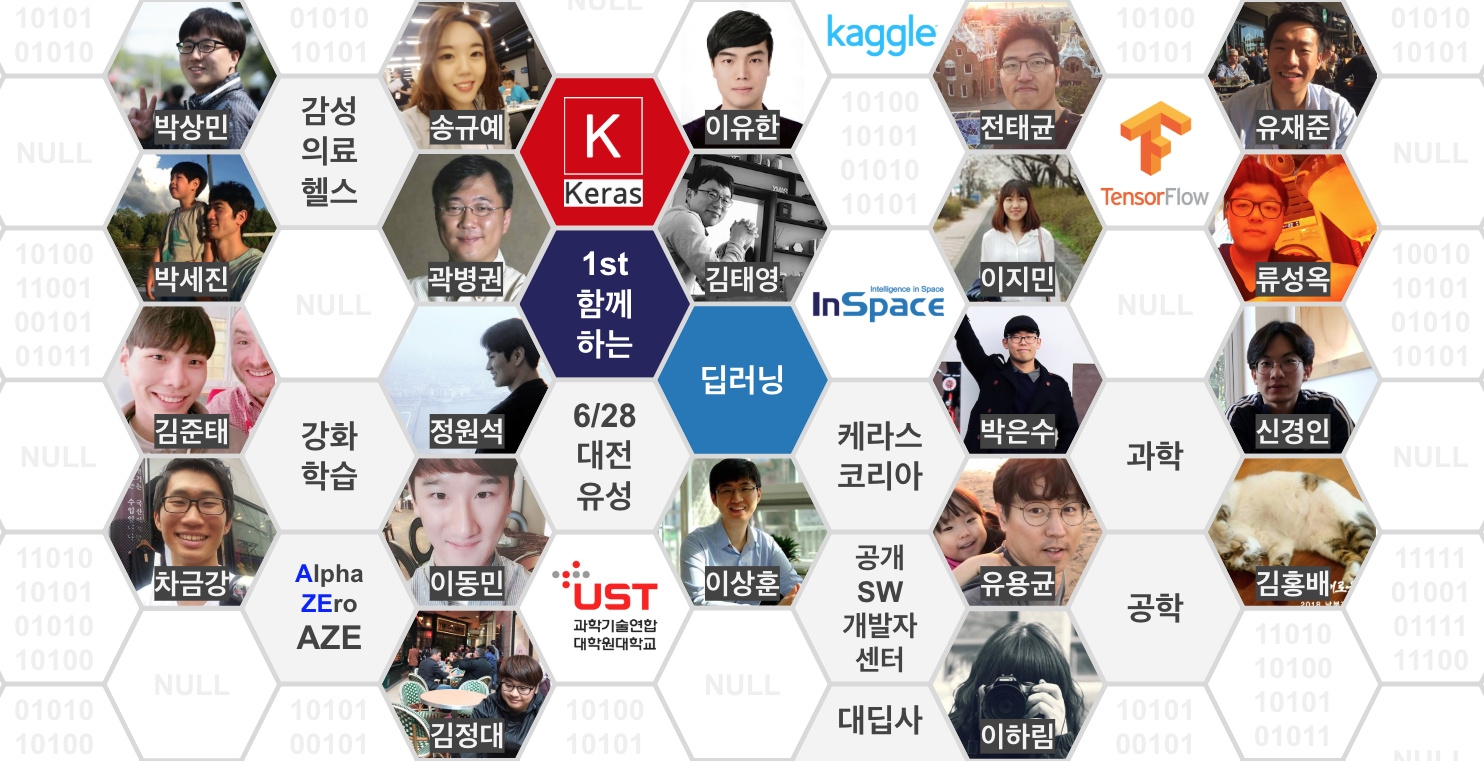
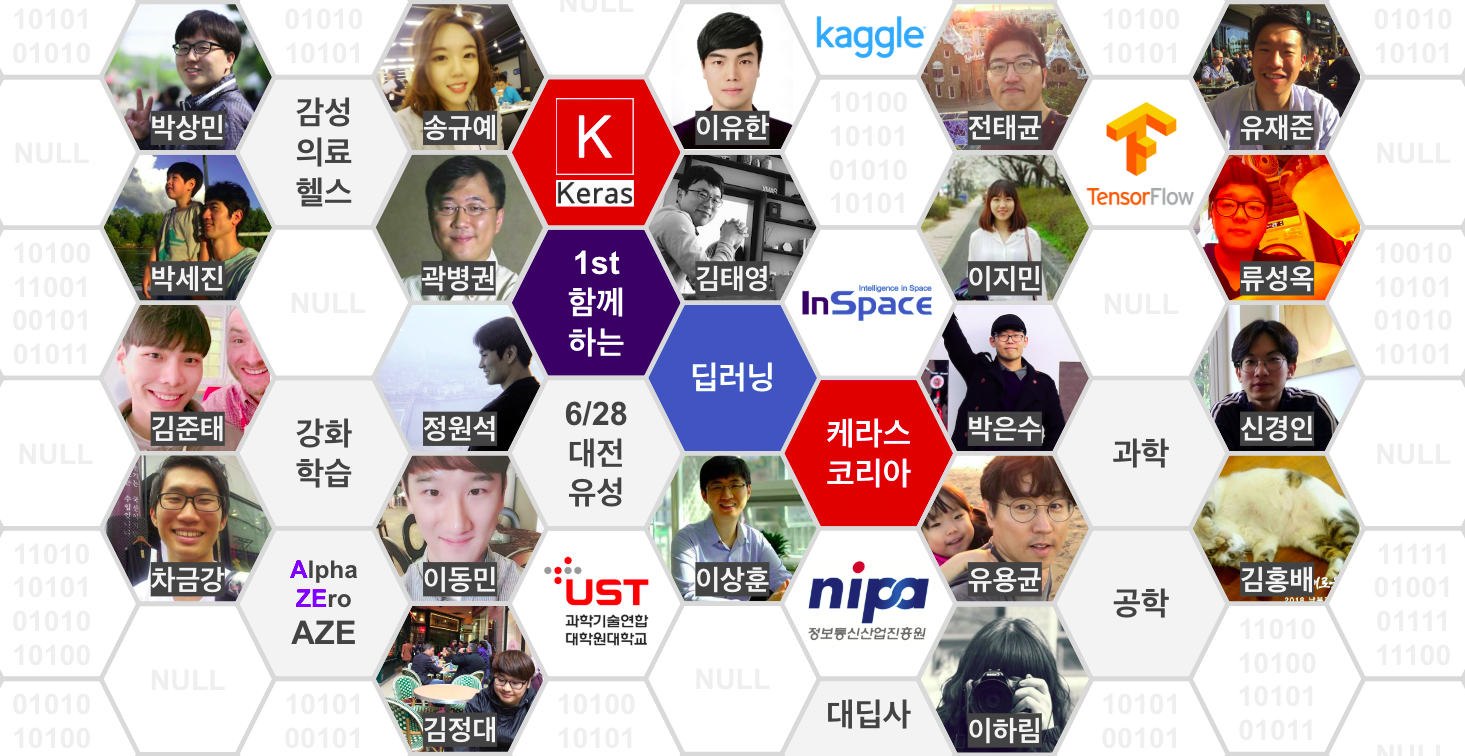
no message

diff --git a/_posts/2018-6-28-ISS_1st_Deep_Learning_Conference_All_Together.md b/_posts/2018-6-28-ISS_1st_Deep_Learning_Conference_All_Together.md
@@ -18,7 +18,8 @@ image: http://tykimos.github.io/warehouse/2018-6-28-ISS_1st_Deep_Learning_Confer
     * 세션 C: 대회의실 30명
 
 3. 주최 : (주)인스페이스, 케라스 코리아, 대딥사
-4. 대상 : 인공지능 및 딥러닝에 관심있거나 관련 연구를 수행하시는 분들 (약 500명)
+4. 후원 : UST 과학기술연합대학원대학교, NIPA 정보통신산업진흥원
+5. 대상 : 인공지능 및 딥러닝에 관심있거나 관련 연구를 수행하시는 분들 (약 500명)
 
 ![img](http://tykimos.github.io/warehouse/2018-6-28-ISS_1st_Deep_Learning_Together_ust.png)
 
@@ -56,11 +57,11 @@ image: http://tykimos.github.io/warehouse/2018-6-28-ISS_1st_Deep_Learning_Confer
 
 ![img](http://image.kyobobook.co.kr/images/book/large/133/l9788960882133.jpg)
 
-[블록과 함께하는 파이썬 딥러닝 케라스](http://www.kyobobook.co.kr/product/detailViewKor.laf?ejkGb=KOR&mallGb=KOR&barcode=9788960882133&orderClick=LAG&Kc=#N&OV_REFFER=http://click.linkprice.com/click.php?m=kbbook&a=A100532541&l=9999&l_cd1=0&u_id=jhqg2qh8q101t9ww02yqe&l_cd2=0&tu=http%3A%2F%2Fwww.kyobobook.co.kr%2Fproduct%2FdetailViewKor.laf%3FejkGb%3DKOR%26mallGb%3DKOR%26barcode%3D9788960882133%26orderClick%3DLAG%26Kc%3D%23N) : 케라스 사용에 필요한 딥러닝 개념 설명과 실습 가능한 파이썬 소스코드를 담고 있으며 직관적으로 딥러닝 모델 구성을 이해할 수 있도록 블록쌓기 예제가 포함되어 있습니다.
+케라스 사용에 필요한 딥러닝 개념 설명과 실습 가능한 파이썬 소스코드를 담고 있으며 직관적으로 딥러닝 모델 구성을 이해할 수 있도록 블록쌓기 예제가 포함되어 있습니다. [교보문고](http://www.kyobobook.co.kr/product/detailViewKor.laf?ejkGb=KOR&mallGb=KOR&barcode=9788960882133&orderClick=LAG&Kc=#N&OV_REFFER=http://click.linkprice.com/click.php?m=kbbook&a=A100532541&l=9999&l_cd1=0&u_id=jhqg2qh8q101t9ww02yqe&l_cd2=0&tu=http%3A%2F%2Fwww.kyobobook.co.kr%2Fproduct%2FdetailViewKor.laf%3FejkGb%3DKOR%26mallGb%3DKOR%26barcode%3D9788960882133%26orderClick%3DLAG%26Kc%3D%23N)
 
 #### 연락처
 * 이메일 : tykim@inspace.re.kr
-* 페이스북 : https://www.facebook.com/tykimo
+* 페이스북 : [https://www.facebook.com/tykimo](https://www.facebook.com/tykimo)
 
 ### 딥러닝 보물상자 '캐글' 알아보기 - 입문 (세미나)
 ---
@@ -76,11 +77,11 @@ image: http://tykimos.github.io/warehouse/2018-6-28-ISS_1st_Deep_Learning_Confer
 (추후 업데이트)
 
 #### 블로그 및 깃헙
-* 블로그 : http://kaggle-kr.tistory.com/
+* 블로그 : [http://kaggle-kr.tistory.com/](http://kaggle-kr.tistory.com/)
 
 #### 연락처
 * 이메일 : youhanlee@kaist.ac.kr 또는 bshz15@gmail.com
-* 페이스북 : https://www.facebook.com/youhan.lee.33
+* 페이스북 : [https://www.facebook.com/youhan.lee.33](https://www.facebook.com/youhan.lee.33)
 
 ### Graph Neural Network - 알고리즘 (세미나)
 ---
@@ -100,11 +101,11 @@ image: http://tykimos.github.io/warehouse/2018-6-28-ISS_1st_Deep_Learning_Confer
 * 논문 : [Deeply learning molecular structure-property relationships using graph attention neural network](https://arxiv.org/abs/1805.10988)
 
 #### 블로그 및 깃헙
-* 블로그 : http://suma_maple.blog.me
+* 블로그 : [http://suma_maple.blog.me](http://suma_maple.blog.me)
 
 #### 연락처
 * 이메일 : sower2002@kaist.ac.kr
-* 페이스북 : https://www.facebook.com/ryu.seongok.1
+* 페이스북 : [https://www.facebook.com/ryu.seongok.1](https://www.facebook.com/ryu.seongok.1)
 
 ### Deep convolutional framelets: application to diffuse optical tomography - 알고리즘 (세미나)
 ---
@@ -125,12 +126,12 @@ Super-resolution, image denoising, reconstruction, segmentation 등의 다양한
 * [Deep Convolutional Framelets: A General Deep Learning Framework for Inverse Problems](https://arxiv.org/abs/1707.00372)
 
 #### 블로그 및 깃헙
-* http://jaejunyoo.blogspot.com
-* https://github.com/jaejun-yoo/
+* 블로그 : [http://jaejunyoo.blogspot.com](http://jaejunyoo.blogspot.com)
+* 깃헙 : [https://github.com/jaejun-yoo/](https://github.com/jaejun-yoo/)
 
 #### 연락처
 * 이메일 : (추후 업데이트)
-* 페이스북 : https://www.facebook.com/thinking.factory
+* 페이스북 : [https://www.facebook.com/thinking.factory](https://www.facebook.com/thinking.factory)
 
 ### TensorFlow Eager Execution - 코어 (라이트닝톡)
 ---
@@ -151,7 +152,7 @@ Super-resolution, image denoising, reconstruction, segmentation 등의 다양한
 
 #### 연락처
 * 이메일 : (추후 업데이트)
-* 페이스북 : https://www.facebook.com/taegyun.jeon
+* 페이스북 : [https://www.facebook.com/taegyun.jeon](https://www.facebook.com/taegyun.jeon)
 
 ### 우리는 왜 강화학습을 해야하는가 - 강화학습 (세미나)
 ---
@@ -171,11 +172,11 @@ Super-resolution, image denoising, reconstruction, segmentation 등의 다양한
 (추후 업데이트)
 
 #### 블로그 및 깃헙
-* 깃헙 : https://github.com/chagmgang 
+* 깃헙 : [https://github.com/chagmgang](https://github.com/chagmgang)
 
 #### 연락처
 * 이메일 : chagmgang@gmail.com
-* 페이스북 : https://www.facebook.com/profile.php?id=100002147815509
+* 페이스북 : [https://www.facebook.com/profile.php?id=100002147815509](https://www.facebook.com/profile.php?id=100002147815509)
 
 ### 달려라, 인공지능 - 강화학습 (세미나)
 ---
@@ -202,12 +203,12 @@ Super-resolution, image denoising, reconstruction, segmentation 등의 다양한
 (추후 업데이트)
 
 #### 블로그 및 깃헙
-* 블로그 : https://wonseokjung.github.io
-* 깃헙 : https://github.com/wonseokjung
+* 블로그 : [https://wonseokjung.github.io](https://wonseokjung.github.io)
+* 깃헙 : [https://github.com/wonseokjung](https://github.com/wonseokjung)
 
 #### 연락처
 * 이메일 : (추후 업데이트)
-* 페이스북 : https://www.facebook.com/ws.jung.798
+* 페이스북 : [https://www.facebook.com/ws.jung.798](https://www.facebook.com/ws.jung.798)
 
 ### 알파오목이랑 게임하기 - 강화학습 (세미나)
 ---
@@ -227,7 +228,7 @@ Super-resolution, image denoising, reconstruction, segmentation 등의 다양한
 
 #### 연락처
 * 이메일 : (추후 업데이트)
-* 페이스북 : https://www.facebook.com/kekmodel
+* 페이스북 : [https://www.facebook.com/kekmodel](https://www.facebook.com/kekmodel)
 
 ### 안.전.제.일. 강화학습! - 강화학습 (세미나)
 ---
@@ -254,12 +255,12 @@ Super-resolution, image denoising, reconstruction, segmentation 등의 다양한
 * 슬라이드쉐어 : [Multi-armed Bandits](https://www.slideshare.net/DongMinLee32/multiarmed-bandits)
 
 #### 블로그 및 깃헙
-* 블로그 : https://dongminlee.tistory.com
-* 깃헙 : https://github.com/dongminleeai
+* 블로그 : [https://dongminlee.tistory.com](https://dongminlee.tistory.com)
+* 깃헙 : [https://github.com/dongminleeai](https://github.com/dongminleeai)
 
 #### 연락처
 * 이메일 : kid33629@gmail.com
-* 페이스북 : https://www.facebook.com/dongminleeai
+* 페이스북 : [https://www.facebook.com/dongminleeai](https://www.facebook.com/dongminleeai)
 
 ### GTA로 자율주행 - 강화학습 (세미나)
 ---
@@ -279,7 +280,7 @@ GTA란 게임을 이용하여 어떻게 주행 데이터를 모으고 학습을 
 
 #### 연락처
 * 이메일 : (추후 업데이트)
-* 페이스북 : https://www.facebook.com/kjt7889
+* 페이스북 : [https://www.facebook.com/kjt7889](https://www.facebook.com/kjt7889)
 
 ### Introduction to GAN - 의료 (세미나)
 ---
@@ -296,7 +297,7 @@ GTA란 게임을 이용하여 어떻게 주행 데이터를 모으고 학습을 
 
 #### 연락처
 * 이메일 : ljm861@gmail.com
-* 페이스북 : https://www.facebook.com/jimin.lee.5623
+* 페이스북 : [https://www.facebook.com/jimin.lee.5623](https://www.facebook.com/jimin.lee.5623)
 
 ### MRI 를 이용한 치매 질환 예측 - 의료 (세미나)
 ---
@@ -316,7 +317,7 @@ GTA란 게임을 이용하여 어떻게 주행 데이터를 모으고 학습을 
 
 #### 연락처
 * 이메일 : (추후 업데이트)
-* 페이스북 : (추후 업데이트)
+* 페이스북 : [https://www.facebook.com/profile.php?id=100002023963861](https://www.facebook.com/profile.php?id=100002023963861)
 
 ### 나의 감성을 알아주는 너 - 감성 (세미나)
 ---
@@ -340,11 +341,11 @@ GTA란 게임을 이용하여 어떻게 주행 데이터를 모으고 학습을 
 (추후 업데이트)
 
 #### 블로그 및 깃헙
-* 깃헙 : https://github.com/Kyuye
+* 깃헙 : [https://github.com/Kyuye](https://github.com/Kyuye)
 
 #### 연락처
 * 이메일 : ivyheart2@gmail.com
-* 페이스북 : https://facebook.com/ivyheart2
+* 페이스북 : [https://facebook.com/ivyheart2](https://facebook.com/ivyheart2)
 
 ### 근전도 생체신호 데이터로 손 모양 생성하기 - 임베디드 (세미나)
 ---
@@ -364,7 +365,7 @@ GTA란 게임을 이용하여 어떻게 주행 데이터를 모으고 학습을 
 
 #### 연락처
 * 이메일 : (추후 업데이트)
-* 페이스북 : https://www.facebook.com/jigeria114
+* 페이스북 : [https://www.facebook.com/jigeria114](https://www.facebook.com/jigeria114)
 
 ### 딥러닝과 함께하는 최적설계와 시뮬레이션, 원자력분야의 적용사례 - 공학 (세미나)
 ---
@@ -388,7 +389,7 @@ GTA란 게임을 이용하여 어떻게 주행 데이터를 모으고 학습을 
 
 #### 연락처
 * 이메일 : yoyogo@gmail.com, ygyu@kaeri.re.kr
-* 페이스북 : https://www.facebook.com/yoyogo96
+* 페이스북 : [https://www.facebook.com/yoyogo96](https://www.facebook.com/yoyogo96)
 
 ### 항공우주분야에서의 머신러닝기술 - 공학 (라이트닝톡)
 ---
@@ -412,7 +413,7 @@ GTA란 게임을 이용하여 어떻게 주행 데이터를 모으고 학습을 
 
 #### 연락처
 * 이메일 : (추후 업데이트)
-* 페이스북 : https://www.facebook.com/profile.php?id=100001173798815
+* 페이스북 : [https://www.facebook.com/profile.php?id=100001173798815](https://www.facebook.com/profile.php?id=100001173798815)
 
 ### 딥러닝을 활용한 테스트 자동화 연구 - 품질 (라이트닝톡)
 ---
@@ -436,7 +437,7 @@ NGLE이라는 QA 전문 회사에서 QA-Test 자동화에 인공지능 적용을
 
 #### 연락처
 * 이메일 : (추후 업데이트)
-* 페이스북 : https://www.facebook.com/byeongkwon.kwak
+* 페이스북 : [https://www.facebook.com/byeongkwon.kwak](https://www.facebook.com/byeongkwon.kwak)
 
 ### 연관된 이미지 변환하기 - 태양 분야 적용 사례
 ---
@@ -470,7 +471,7 @@ NGLE이라는 QA 전문 회사에서 QA-Test 자동화에 인공지능 적용을
 
 #### 연락처
 * 이메일 : phoenixlee1@gmail.com
-* 페이스북 : https://www.facebook.com/phoenixlee.sh
+* 페이스북 : [https://www.facebook.com/phoenixlee.sh](https://www.facebook.com/phoenixlee.sh)
 
 ---
 ### 상세 프로그램
